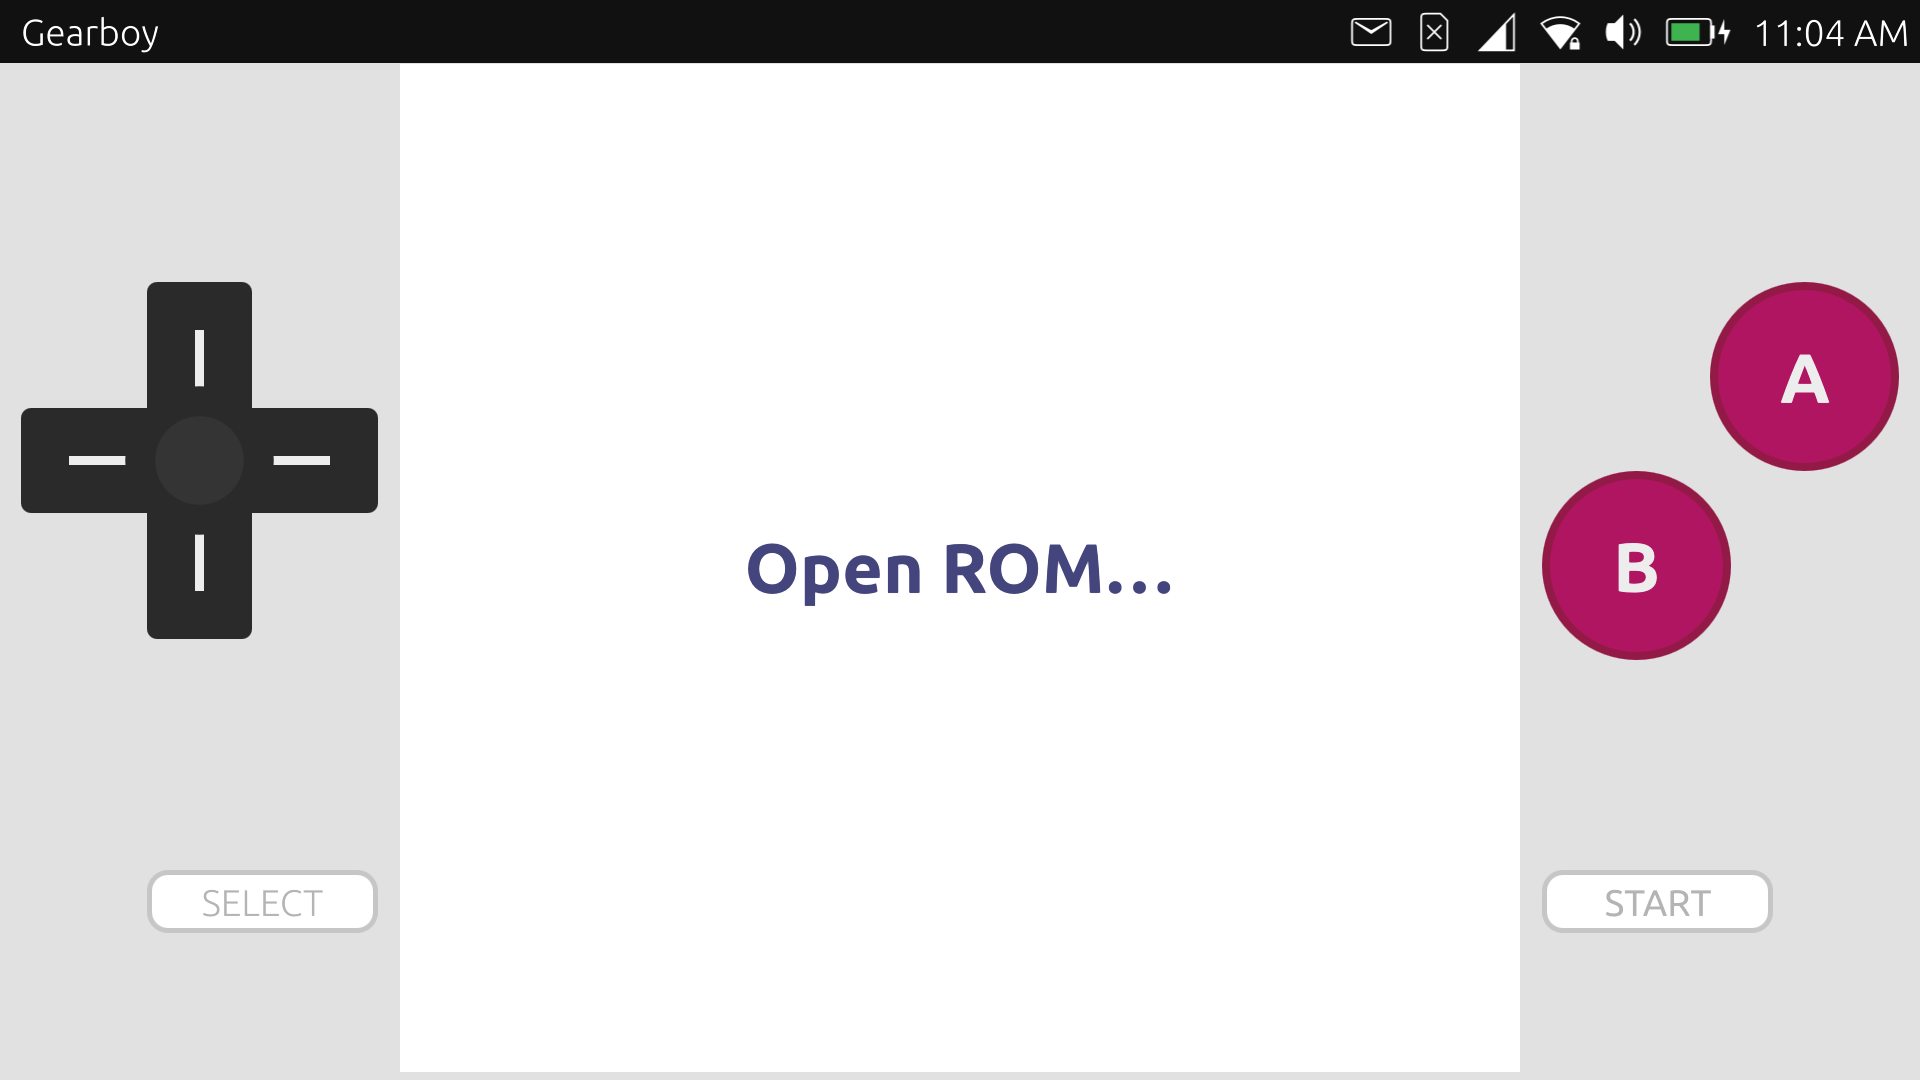
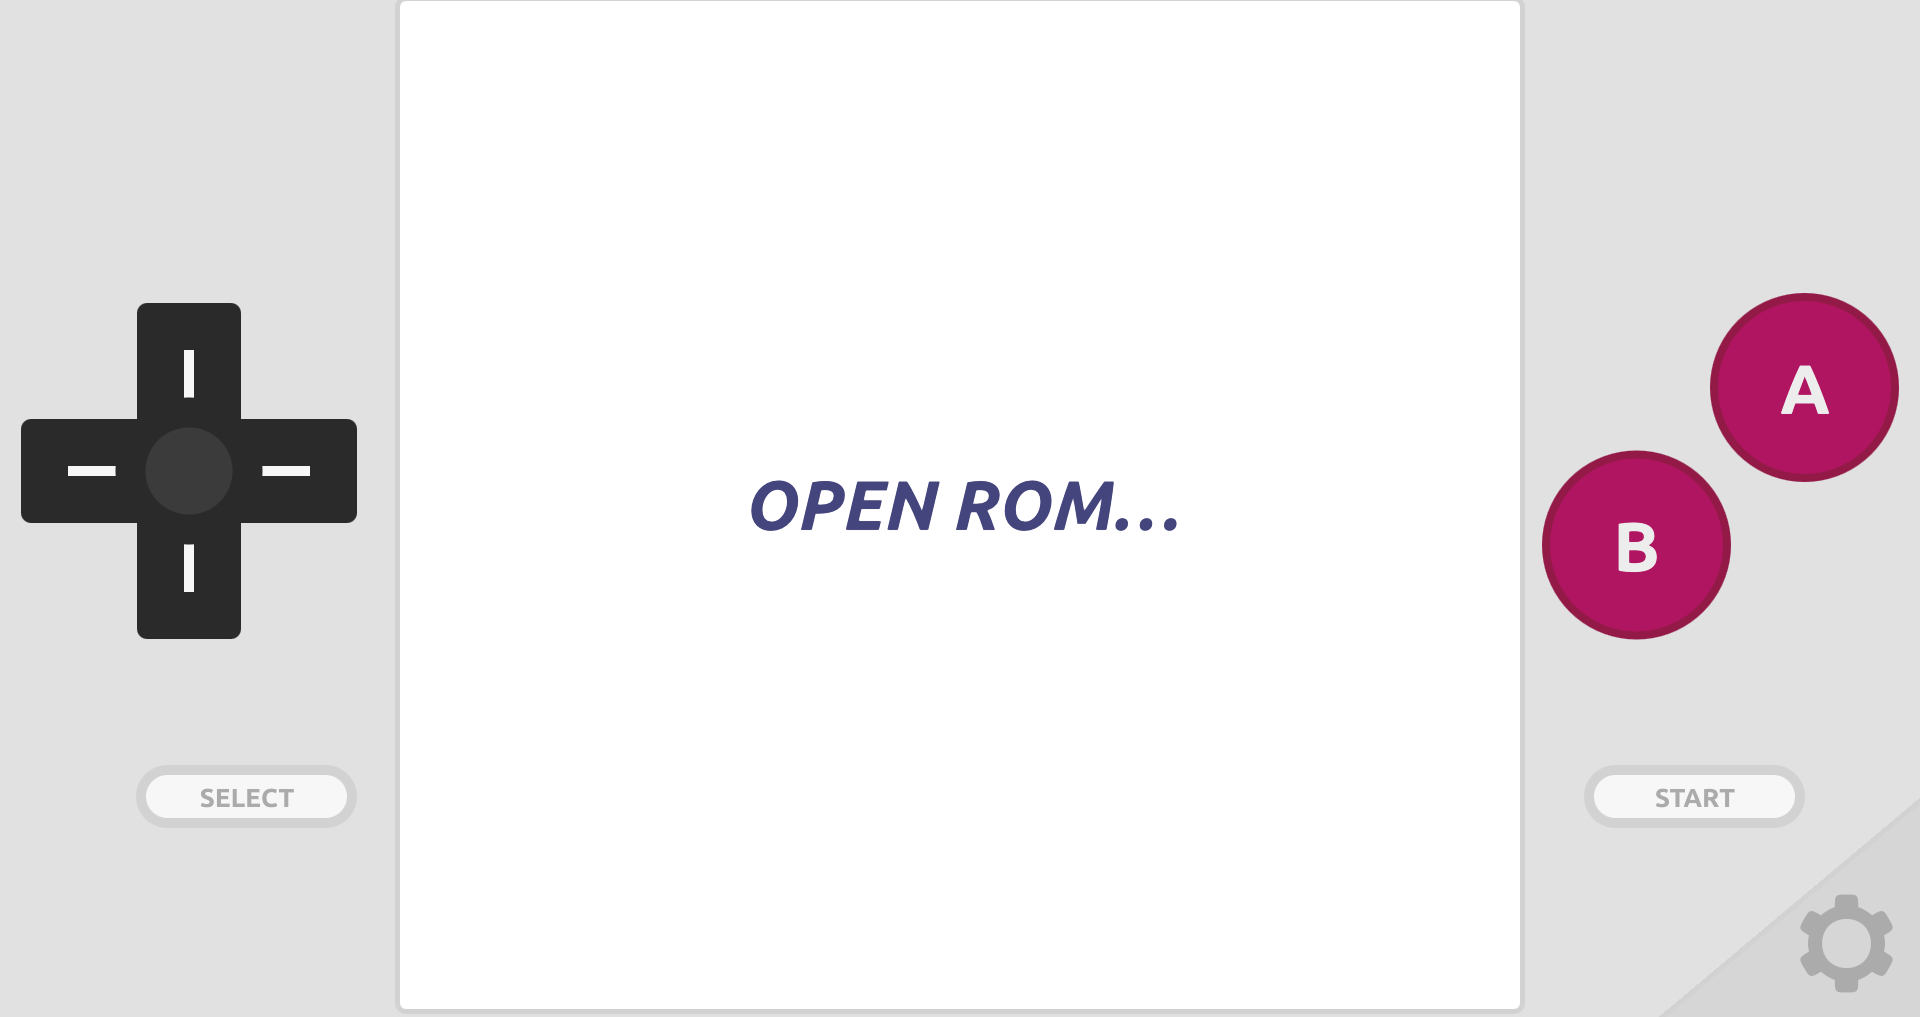
updated style

diff --git a/platforms/ubuntu_touch/main.qml b/platforms/ubuntu_touch/main.qml
@@ -14,19 +14,19 @@ MainView {
 
     applicationName: "gearboy.rpattison"
 
-    property color gb_white: Qt.lighter("#CDCDCD", 1.1)
-    property color gb_white_accent: "#EDEDED"
-    property color gb_gray: Qt.lighter("#A3A3A3", 1.05)
-    property color gb_gray_dark: Qt.lighter("#999999", 1.3)
-    property color gb_gray_accent: "#ffffff"
     property color gb_black: "#2A2A2A"
-    property color gb_black_accent: Qt.lighter("#343434", 1.15)
-    property color gb_purple: "#B01561"
-    property color gb_purple_accent: Qt.darker("#CF2463", 1.4)
+    property color gb_black_accent: "#3B3B3B"
+
+    property color gb_gray: "#ABABAB"
+    property color gb_gray_accent: "#D2D2D2"
+    property color gb_light_gray: "#D6D6D6"
+    property color gb_white: "#E1E1E1"
+    property color gb_white_accent: "#F7F7F7"
 
     property color gb_blue: "#45457e"
+    property color gb_purple: "#B01561"
+    property color gb_purple_accent: "#931946"
 
-    property real outline: units.gu(0.375)
     property real thin_outline: units.gu(0.25)
 
     property var activeTransfer: null
@@ -70,7 +70,7 @@ MainView {
         x: emu.rect.x - border.width
         y: parent.height - (emu.rect.y - border.width) - height // OpenGL coordinates to screen
         color: "transparent"
-        border.color: Qt.darker(gb_white, 1.07)
+        border.color: gb_gray_accent
         border.width: thin_outline
         radius: units.gu(0.5)
     }
@@ -203,15 +203,15 @@ MainView {
 
             anchors.right: parent.right
 
-            buttonWidth: units.gu(11) - 2 * thin_outline
-            buttonHeight: units.gu(3) * 1.2 - 2 * thin_outline
+            buttonWidth: units.gu(10.5)
+            buttonHeight: units.gu(3)
             touchPadding: units.gu(1)
 
             radius: height / 2
             border.width: thin_outline * 2
 
-            color: gb_gray_accent
-            border.color: Qt.darker(gb_white, 1.07)
+            color: gb_white_accent
+            border.color: gb_gray_accent
 
             text: i18n.tr("SELECT")
             textColor: gb_gray
@@ -245,19 +245,17 @@ MainView {
             anchors.left: parent.left
             anchors.leftMargin: units.gu(1)
 
-            buttonWidth: units.gu(11) - 2 * thin_outline
-            buttonHeight: units.gu(3) * 1.2 - 2 * thin_outline
+            buttonWidth: units.gu(10.5)
+            buttonHeight: units.gu(3)
             touchPadding: units.gu(1)
 
             radius: select.radius
             border.width: select.border.width
 
-            color: gb_gray_accent
-            border.color: Qt.darker(gb_white, 1.07)
+            color: gb_white_accent
+            border.color: gb_gray_accent
 
-            onPushed: {
-                click();
-            }
+            onPushed: click()
         }
 
         ButtonPad {
@@ -387,10 +385,10 @@ MainView {
         id: shaded_corner
         width: units.gu(16)
         height: units.gu(28)
-        color: Qt.darker(gb_white, 1.05)
+        color: gb_light_gray
         rotation: 50
-        border.width: units.gu(0.25)
-        border.color: Qt.darker(gb_white, 1.07)
+        border.width: thin_outline
+        border.color: gb_gray_accent
 
         anchors {
             verticalCenter: parent.bottom
@@ -417,7 +415,7 @@ MainView {
 
     Icon {
         name: "properties"
-        color: Qt.darker(gb_white, 1.3)
+        color: gb_gray
         width: units.gu(5)
         height: units.gu(5)
         anchors {
